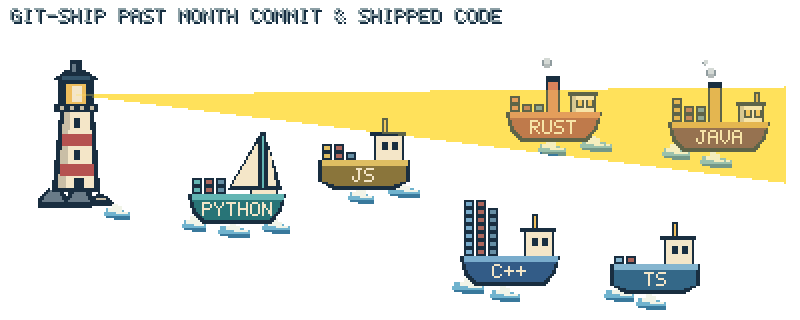
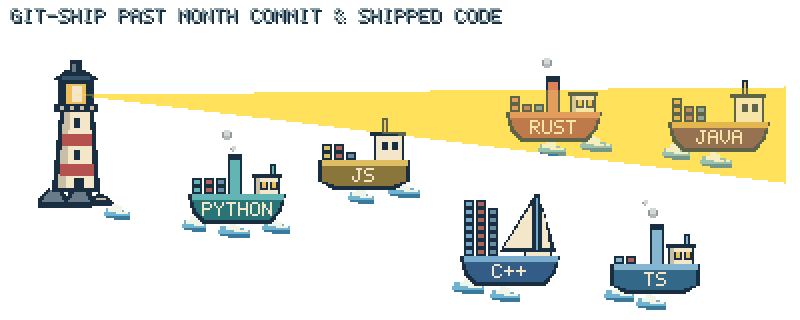
Choose ship designs independently of language on each generation

diff --git a/tests/test_ship_assignment.py b/tests/test_ship_assignment.py
@@ -1,0 +1,61 @@
+from collections import Counter
+from dataclasses import replace
+
+import pytest
+
+from git_ship.config import Config
+from git_ship.export import export
+from git_ship.layout import layout
+from git_ship.sprites import SHIP_DESIGNS, language_style, ship_sprite
+
+
+def test_each_language_can_use_every_existing_ship_design(demo):
+    designs = {ship.language.name: set() for ship in layout(demo, Config(seed=0)).ships}
+    # A language's data/color identity stays intact as its physical ship changes.
+    for seed in range(50):
+        for ship in layout(demo, Config(seed=seed)).ships:
+            designs[ship.language.name].add(ship.style.design)
+            base = language_style(ship.language.name, Config())
+            assert (ship.style.label, ship.style.hull, ship.style.trim) == (
+                base.label,
+                base.hull,
+                base.trim,
+            )
+    assert all(found == set(SHIP_DESIGNS) for found in designs.values())
+
+
+def test_fleet_uses_every_design_before_repeating_and_honors_custom_labels(demo):
+    config = Config(seed="mixed-fleet", labels={"Java": "CUSTOM"}, colors={"Java": "#123456"})
+    scene = layout(demo, config)
+    chosen = [ship.style.design for ship in scene.ships]
+    assert len(set(chosen[: len(SHIP_DESIGNS)])) == min(len(chosen), len(SHIP_DESIGNS))
+    assert max(Counter(chosen).values()) <= 2
+    java = next(ship for ship in scene.ships if ship.language.name == "Java")
+    assert java.style.label == "CUSTOM" and java.style.hull == "#123456"
+    assert java.language.cargo == 7
+
+
+def test_design_assignment_does_not_depend_on_placement_retries(demo):
+    config = Config(seed="independent-shapes")
+    with_header = layout(demo, config)
+    without_header = layout(demo, replace(config, watermark=False))
+    assert [ship.style.design for ship in with_header.ships] == [
+        ship.style.design for ship in without_header.ships
+    ]
+
+
+def test_recorded_seed_replays_positions_designs_and_cargo(demo, tmp_path):
+    config = Config(seed="record-the-whole-fleet", scale=1, duration=2)
+    scene = layout(demo, config)
+    report, _ = export(scene, config, tmp_path)
+    replay = layout(demo, replace(config, seed=report["layout_seed"]))
+    assert replay == scene
+    assert [language["design"] for language in report["languages"]] == [
+        ship.style.design for ship in scene.ships
+    ]
+
+
+def test_unknown_ship_design_is_rejected_instead_of_becoming_a_sailboat():
+    style = replace(language_style("Java", Config()), design="unapproved-design")
+    with pytest.raises(ValueError, match="unknown ship design"):
+        ship_sprite(style, 60, 20)

diff --git a/src/git_ship/layout.py b/src/git_ship/layout.py
@@ -9,7 +9,7 @@ from dataclasses import dataclass
 
 from .config import HEIGHT, WIDTH, Config
 from .model import Language, Profile, global_activity, rank_languages
-from .sprites import Style, language_style, stable_seed
+from .sprites import SHIP_DESIGNS, Style, language_style, stable_seed
 from .watermark import WATERMARK_HEIGHT
 
 
@@ -96,13 +96,23 @@ def layout(profile: Profile, config: Config) -> Scene:
     identity = profile.username.casefold()
     widths = [min(round(44 + 16 * math.sqrt(language.share)), 62) for language in languages]
     positions = placements(widths, rng, WATERMARK_HEIGHT if config.watermark else 0)
+    # Each shuffled bag uses every approved design before repeating. Ship shapes
+    # are chosen per generation, independently of the language they carry.
+    design_rng = random.Random(stable_seed(f"{layout_seed}:ships"))
+    designs = []
+    while len(designs) < len(languages):
+        bag = list(SHIP_DESIGNS)
+        design_rng.shuffle(bag)
+        designs.extend(bag)
     ships = []
-    for language, width, (x, y) in zip(languages, widths, positions, strict=True):
+    for language, width, (x, y), design in zip(
+        languages, widths, positions, designs[: len(languages)], strict=True
+    ):
         phase = (stable_seed(f"{identity}:{language.name}") % 1024) / 1024
         ships.append(
             Ship(
                 language,
-                language_style(language.name, config),
+                language_style(language.name, config, design=design),
                 x,
                 y,
                 width,

diff --git a/src/git_ship/sprites.py b/src/git_ship/sprites.py
@@ -33,6 +33,7 @@ STONE = "#697b88"
 
 # Sprite-space mouth positions, shared by the art and its smoke emitter.
 FUNNEL_ORIGINS = {"steam": (21, 18), "tug": (21, 20)}
+SHIP_DESIGNS = ("steam", "tug", "freighter", "sail")
 
 LANGUAGES = json.loads(files("git_ship").joinpath("assets/languages.json").read_text())
 
@@ -49,7 +50,7 @@ class Style:
     trim: str
 
 
-def language_style(name: str, config: Config) -> Style:
+def language_style(name: str, config: Config, *, design: str | None = None) -> Style:
     known = LANGUAGES.get(name)
     if not isinstance(known, dict):
         variants = LANGUAGES["fallbacks"]
@@ -65,13 +66,15 @@ def language_style(name: str, config: Config) -> Style:
         hull = "#" + "".join(f"{round(c * 0.52):02x}" for c in (r, g, b))
     else:
         trim = known["trim"]
-    return Style(label, known["design"], hull, trim)
+    return Style(label, design if design is not None else known["design"], hull, trim)
 
 
 def ship_sprite(style: Style, width: int, cargo: int = 0) -> Image.Image:
     """A right-facing boat, its hull at y=39..52; lettering never scales."""
     if type(cargo) is not int or not 0 <= cargo <= CARGO_LIMIT:
         raise ValueError(f"cargo must be an integer in 0..{CARGO_LIMIT}")
+    if style.design not in SHIP_DESIGNS:
+        raise ValueError(f"unknown ship design: {style.design}")
     image = Image.new("RGBA", (width, 56))
     d = ImageDraw.Draw(image)
     mid = width - 13

diff --git a/scripts/sprite_atlas.py b/scripts/sprite_atlas.py
@@ -11,7 +11,7 @@ from git_ship.model import Profile
 from git_ship.sprites import lighthouse_sprite, ship_sprite
 
 with as_file(files("git_ship").joinpath("assets/demo.json")) as path:
-    fleet = layout(Profile.read(path), Config())
+    fleet = layout(Profile.read(path), Config(seed="demo"))
 atlas = Image.new("RGBA", (60 + 70 * len(fleet.ships), 100))
 atlas.alpha_composite(lighthouse_sprite(), (4, 4))
 for i, ship in enumerate(fleet.ships):

diff --git a/src/git_ship/export.py b/src/git_ship/export.py
@@ -119,6 +119,7 @@ def export(
             {
                 "name": s.language.name,
                 "label": s.style.label,
+                "design": s.style.design,
                 "code_share": round(s.language.share, 6),
                 "activity": round(s.language.activity, 6),
                 "width": s.width,

diff --git a/README.md b/README.md
@@ -7,7 +7,7 @@ A little lighthouse for you. A cargo fleet for your languages. Your GitHub READM
   <img src="examples/demo/git-ship.gif" width="800" alt="A lighthouse beside six active-language pixel ships carrying commit cargo over small foamy wakes.">
 </picture>
 
-Git Ship is an open-source **reusable GitHub Action** and Python CLI for anyone's profile. It fetches your public repository data and generates a transparent animated GIF plus a matching static PNG. **Only languages with qualifying commits appear: up to six ships, with one container per commit and at most 20 containers per ship.** Each regeneration picks fresh positions across the sea; positions remain fixed within the seamless animation loop. An optional rotating lighthouse ray sweeps a solid yellow cone across the scene and tints the artwork it crosses. A small optional watermark at the top left names Git Ship and the selected period. Regenerate automatically every day and choose a **1-day, 7-day, 30-day, or 365-day** activity window. No hosted application, external image service, or personal access token is needed for the normal setup.
+Git Ship is an open-source **reusable GitHub Action** and Python CLI for anyone's profile. It fetches your public repository data and generates a transparent animated GIF plus a matching static PNG. **Only languages with qualifying commits appear: up to six ships, with one container per commit and at most 20 containers per ship.** Each regeneration picks fresh positions across the sea and shuffles ship types; positions and types remain fixed within the seamless animation loop. An optional rotating lighthouse ray sweeps a solid yellow cone across the scene and tints the artwork it crosses. A small optional watermark at the top left names Git Ship and the selected period. Regenerate automatically every day and choose a **1-day, 7-day, 30-day, or 365-day** activity window. No hosted application, external image service, or personal access token is needed for the normal setup.
 
 Use `PingPongPlus/git-ship@main` for the current source action, or pin a reviewed full commit SHA for a stable installation.
 
@@ -149,6 +149,8 @@ File attribution is a **filename-based heuristic**, not GitHub's full content-aw
 
 Zero matching commits means **no ship for that language**. Unknown cached activity is hidden too. There are no decorative cargo blocks. All four designs reserve deck space for three columns of containers, up to seven tiers (20 total), keeping the hull name, sails, cabin and smoke clear. Container size stays constant as stacks grow. The demo includes **JAVA (7)**, **C++ (20)**, **PYTHON (6)**, **RUST (4)**, **JavaScript/JS (5)**, and **TypeScript/TS (2)**.
 
+Ship shape is independent of language. Each generation shuffles the four existing types—steamship, tug, freighter and sailboat—and uses every type before repeating one. A six-ship fleet therefore has no more than two of any type. Language labels, colors, custom label/color settings and commit cargo remain tied to the actual language.
+
 Fetching considers all candidate languages until it can determine the active fleet, including languages below quiet high-byte candidates. It stops early only when the selected counts are known/capped and higher-ranked candidates cannot change that selection. Larger counts are intentionally represented as **20**, not reported as exact totals. Repository/commit lists are bounded to ten 100-item pages each, commit files to 30 pages, responses to 10 MB, and a run to 2000 HTTP attempts. Reaching GitHub's 3000-file-per-commit limit or a pagination/request limit fails clearly rather than silently undercounting. Narrow repository filters or the data window for large profiles. Public API limits may be lower than these client bounds.
 
 ## Run locally, entirely offline if desired
@@ -182,7 +184,7 @@ Open `out/preview.html` directly or serve it with `python -m http.server 8000` a
 | --- | --- |
 | `git-ship.gif` | Transparent endlessly looping animation |
 | `git-ship.png` | Transparent static frame zero |
-| `report.json` | Dimensions, timing, size, transparency, window days, beam/watermark settings, watermark text, ship positions, cargo counts and replayable layout seed |
+| `report.json` | Dimensions, timing, size, transparency, window days, beam/watermark settings, watermark text, ship positions/types, cargo counts and replayable layout seed |
 | `preview.html` | Optional light/dark playback and pause control |
 | `contact-sheet.png` | Optional four-time-point verification sheet |
 
@@ -200,7 +202,7 @@ Cached normalized schema-2 profiles contain public bytes, sampled commit SHAs/au
 | `scale` | 2 | Integer 1–4; 400×160 logical grid, nearest-neighbor export |
 | `fps` | 10 | 5, 10, 20 or 25, all exact GIF centiseconds |
 | `duration` | 10 | Integer seconds, 2–20; at most 300 frames |
-| `seed` | fresh random value | Optional string/integer to reproduce placement; omit for new positions on each run |
+| `seed` | fresh random value | Optional string/integer to reproduce positions and ship types; omit for a fresh fleet on each run |
 | `lighthouse_beam` | true | Rotating lighthouse ray; set false to disable |
 | `watermark` | true | Top-left Git Ship and data-period label; set false to disable |
 | `observation_date` | current instant live | ISO/TOML date; override uses end of that UTC date; offline uses its fixture instant/date |
@@ -215,7 +217,7 @@ To disable the ray, add `lighthouse-beam: 'false'` under the action's `with:` bl
 
 The watermark reads **`GIT-SHIP PAST MONTH COMMIT & SHIPPED CODE`** for the month preset. It follows the selected day, week, month or year window; a custom window uses its number of days. It uses the project's uppercase pixel font and gray lettering at the top left. To hide it, set the action input `watermark: 'false'`, use `watermark = false` in TOML, or pass `--no-watermark`. `--watermark` enables it explicitly. This display setting does not change commit counts.
 
-Abbreviations include JS, TS, IPYNB, and OBJ-C. Unknown names use an uppercase ASCII approximation truncated to six characters; configure labels to avoid collisions. Full language names remain in the report. Unknown languages receive deterministic design/color variants. An inactive window keeps the lighthouse, its optional ray and localized ripples, with no idle ships. Total export workload is capped at **80 million frame-pixels** before allocation; not every otherwise-valid scale/fps/duration combination fits. RGBA, indexed and verification frames make peak memory several times the pixel count.
+Abbreviations include JS, TS, IPYNB, and OBJ-C. Unknown names use an uppercase ASCII approximation truncated to six characters; configure labels to avoid collisions. Full language names remain in the report. Unknown languages receive deterministic color variants and participate in the same shuffled ship-type pool. An inactive window keeps the lighthouse, its optional ray and localized ripples, with no idle ships. Total export workload is capped at **80 million frame-pixels** before allocation; not every otherwise-valid scale/fps/duration combination fits. RGBA, indexed and verification frames make peak memory several times the pixel count.
 
 ## Exact activity and animation formulas
 
@@ -225,7 +227,7 @@ For language `L`, `B[L] = sum(selected_repo_bytes[L])`, and `share[L] = B[L]/sum
 
 The optional [GraphQL contribution calendar](https://docs.github.com/en/graphql/reference/users#contributionscollection) is requested for the same chosen interval. GitHub defines its contribution types, daily calendar aggregation and token visibility; it is not a precise per-language commit counter. Clamp `energy = min(total,1000)/1000`; unavailable totals stay null and use energy zero with a warning. Language bytes are not time-windowed.
 
-Each render samples positions throughout the sea to the right of the lighthouse, rejecting placements whose full wake/drift/bob/smoke envelopes overlap or leave the canvas. Bounded retries keep layout work finite; dense fleets fall back to randomized column widths and independent vertical splits that guarantee room. Hull width is `min(round(44 + 16*sqrt(share)), 62)`, so names and cargo stay readable even with six ships. A fresh random seed is chosen **once per render**, never per frame. `report.json` stores `layout_seed` and ship coordinates; pass the seed back through `--seed` with the same profile/config to reproduce the GIF. The demo artifacts use `--seed demo`. Refreshing a README replays its existing GIF; a new workflow run generates the new placement.
+Each render samples positions throughout the sea to the right of the lighthouse, rejecting placements whose full wake/drift/bob/smoke envelopes overlap or leave the canvas. Bounded retries keep layout work finite; dense fleets fall back to randomized column widths and independent vertical splits that guarantee room. Hull width is `min(round(44 + 16*sqrt(share)), 62)`, so names and cargo stay readable even with six ships. A fresh random seed is chosen **once per render**, never per frame. A separate shuffle derived from that seed assigns ship types without changing placement randomness. `report.json` stores `layout_seed`, ship coordinates and each language's `design` (`steam`, `tug`, `freighter` or `sail`); pass the seed back through `--seed` with the same profile/config to reproduce positions, types and the GIF. The demo artifacts use `--seed demo`. Refreshing a README replays its existing GIF; a new workflow run generates a fresh fleet.
 
 A 14-pixel header reserves space for the watermark. The label is drawn after the ray, keeping its gray lettering untinted throughout the animation. The report records `watermark` and `watermark_text` alongside the selected activity window.
 
@@ -237,7 +239,7 @@ Three blue/white wake clusters cycle three times per loop, visible for phases 0.
 
 PNG has real binary RGBA alpha. The ray's tint is preblended into RGB while its pixels remain fully opaque, keeping the same result in GIF. GIF uses one exact shared palette, transparency index **0**, full-frame image blocks and **disposal 2**, with optimization disabled. Outside the ray and scene artwork, the sea and sky remain transparent; no matte, quantization, antialiasing or checkerboard is drawn. Pillow's public GIF block helpers preserve identical adjacent frames in quiet scenes. Every saved GIF frame is decoded and compared against intended alpha and visible RGB, including vacated pixels, before images replace existing assets. See [Pillow's GIF options](https://pillow.readthedocs.io/en/stable/handbook/image-file-formats.html#gif).
 
-Current six-ship demo with the solid ray and watermark enabled: **800×320**, **100 frames**, **10 fps**, **10 seconds**, **947,276 GIF bytes**; PNG **6,356 bytes**. Every frame is **74.19–84.27% fully transparent**. The filled ray occupies additional space as it sweeps; the ray-disabled fleet retains the tested 80% minimum transparency. Sizes may change with source/palette/Pillow versions; `report.json` records actual measurements. The 2 MB target is a warning threshold, not a reason to hide names or cargo. 800 px is recommended; 400 px is the compact proof.
+Current six-ship demo with randomized ship types, the solid ray and watermark enabled: **800×320**, **100 frames**, **10 fps**, **10 seconds**, **969,933 GIF bytes**; PNG **6,567 bytes**. Every frame is **73.82–84.12% fully transparent**. The filled ray occupies additional space as it sweeps; the ray-disabled fleet retains the tested 80% minimum transparency. Sizes may change with source/palette/Pillow versions; `report.json` records actual measurements. The 2 MB target is a warning threshold, not a reason to hide names or cargo. 800 px is recommended; 400 px is the compact proof.
 
 ## Develop, test and inspect
 
@@ -251,7 +253,7 @@ python scripts/sprite_atlas.py
 git-ship render --demo --seed demo --preview --output-dir examples/demo
 ```
 
-Ordinary tests use fixtures and local temporary Git repositories, with no live API or push requirement. They cover active-language discovery below inactive candidates, six-ship limits, randomized/replayable layouts across the sea, disjoint full motion envelopes across many seeds, the 20-container cap, file/commit pagination, renamed-account author attribution, SHA deduplication, time windows, unknown caches, cargo/label clearance, beam rotation and its disable setting, the period watermark, loop continuity, exact decoded cleanup, offline CLI/action execution, and isolated output-branch publishing. CI runs on pushes and pull requests with Python 3.11/3.15, lint, tests, package build and an offline render. A separate job invokes the actual local root composite action with `uses: ./` and a selected data window. CI does not publish images or releases. Dependabot checks Actions and Python dependencies monthly. Actions currently use v7 major refs; pin immutable SHAs if required by your policy.
+Ordinary tests use fixtures and local temporary Git repositories, with no live API or push requirement. They cover active-language discovery below inactive candidates, six-ship limits, randomized/replayable layouts and balanced ship-type assignments, disjoint full motion envelopes across many seeds, the 20-container cap, file/commit pagination, renamed-account author attribution, SHA deduplication, time windows, unknown caches, cargo/label clearance, beam rotation and its disable setting, the period watermark, loop continuity, exact decoded cleanup, offline CLI/action execution, and isolated output-branch publishing. CI runs on pushes and pull requests with Python 3.11/3.15, lint, tests, package build and an offline render. A separate job invokes the actual local root composite action with `uses: ./` and a selected data window. CI does not publish images or releases. Dependabot checks Actions and Python dependencies monthly. Actions currently use v7 major refs; pin immutable SHAs if required by your policy.
 
 Editable artwork is documented in [artwork/README.md](artwork/README.md). The renderer separates fetching (`github.py`), normalization/ranking (`model.py`), filename attribution (`languages.py`), validation (`config.py`), safe layout (`layout.py`), pixel art (`sprites.py`, `font.py`), animation (`animation.py`), export/audit (`export.py`) and local proof (`preview.py`). `scripts/run_action.py` runs the same CLI for any caller; `scripts/publish_assets.py` is optional and separate.
 

diff --git a/docs/verification.md b/docs/verification.md
@@ -4,9 +4,9 @@ Local verification: **2026-11-01**, macOS arm64, Python **3.15.0**, Pillow **13.
 CI covers Python **3.11/3.15** and runs the root composite action with Python **3.13**.
 The public destination is [PingPongPlus/git-ship](https://github.com/PingPongPlus/git-ship).
 This revision targets `main` and retains the rolling 365-day preset. It fixes
-renamed-account commit attribution, samples ship positions across the sea, and
-adds a configurable rotating lighthouse ray and period watermark. No `v1` or
-Marketplace release is claimed. Hosted results are available under the
+renamed-account commit attribution, samples ship positions across the sea,
+shuffles the existing ship types, and adds a configurable rotating lighthouse ray
+and period watermark. No `v1` or Marketplace release is claimed. Hosted results are available under the
 repository's Actions tab.
 
 ## Commands and results
@@ -18,7 +18,7 @@ Commands were run from the project root with its `.venv` unless noted.
 | `/opt/homebrew/bin/python3 -m venv .venv` | Created Python 3.15 environment; the system Python 3.9.6 was too old. |
 | `python -m pip install --no-build-isolation -e .` | Package and CLI installed successfully. |
 | `ruff check .` / `ruff format --check .` | Passed. |
-| `pytest -q` | **119 passed** in 6.95 seconds, with no live API required. |
+| `pytest -q` | **124 passed** in 6.97 seconds, with no live API required. |
 | `python -m build --no-isolation` | Built wheel and source archive, including JSON mappings, fixtures and the Linguist license. |
 | `python -m pip install --no-deps --upgrade --target out/wheel-install dist/git_ship-0.1.0-py3-none-any.whl` | Installed built wheel into an isolated target for verification. |
 | From `/private/tmp`, using the absolute interpreter path and `PYTHONPATH=.../out/wheel-install`: `python -m git_ship render --demo --duration 2 --scale 1 --output-dir .../out/wheel-render` | Installed-wheel import/render smoke test; bundled offline assets and mappings work outside the source checkout. |
@@ -75,7 +75,19 @@ Ordinary tests never depend on GitHub availability or write to a remote service.
   fall back to randomized column widths and independent vertical splits when a
   dense fleet needs a guaranteed fit. Positions remain fixed through the loop.
   An explicit `--seed` makes the complete scene repeatable; the report records
-  `layout_seed`, coordinates, ray/watermark settings and watermark text.
+  `layout_seed`, coordinates, ship designs, ray/watermark settings and watermark
+  text.
+
+## Ship-type assignment contracts
+
+The production pool remains the four existing `steam`, `tug`, `freighter` and
+`sail` designs. Each render shuffles a bag of all four before any repeats; a
+six-ship scene has at most two of each design. The shuffle uses a separate random
+stream derived from the layout seed, so an explicit seed replays both positions
+and types. Language labels, colors, custom label/color settings and commit cargo
+are preserved independently of shape. Each report language entry includes
+`design`. The sprite atlas uses the fixed `demo` seed for reproducible type
+assignments. No additional ship artwork is included in this production pool.
 
 ## Renamed-account undercount investigation
 
@@ -151,15 +163,16 @@ Fixture: `src/git_ship/assets/demo.json`, observed on **2026-10-01**.
 | Layout seed | `demo` |
 | Lighthouse ray | Enabled |
 | Watermark | Enabled; `GIT-SHIP PAST MONTH COMMIT & SHIPPED CODE` |
-| GIF | **947,276 bytes**, below 2 MB target |
-| PNG | **6,356 bytes**, genuine RGBA |
-| Fully transparent pixels over every frame | **74.1875%–84.271875%** |
+| Ship designs, in report order | freighter / sail / steam / tug / freighter / steam |
+| GIF | **969,933 bytes**, below 2 MB target |
+| PNG | **6,567 bytes**, genuine RGBA |
+| Fully transparent pixels over every frame | **73.821875%–84.1171875%** |
 | Alpha / palette / disposal | Binary alpha, one shared palette, transparent index 0, disposal 2 |
 | Decoded comparison | All 100 frames exactly match intended alpha and visible RGB |
 | Cargo, in report order | JAVA 7 / C++ 20 / PYTHON 6 / RUST 4 / JS 5 / TS 2 |
 
 The solid ray intentionally occupies otherwise empty pixels while sweeping,
-reducing the demo's minimum transparency to about 74.19% with the watermark
+reducing the demo's minimum transparency to about 73.82% with the watermark
 enabled. Tests continue to require at least 80% transparency for the fleet with
 the ray disabled. With the
 ray enabled, exact binary alpha, palette colors and decoded cleanup remain

diff --git a/artwork/README.md b/artwork/README.md
@@ -2,7 +2,7 @@ The original editable artwork lives in the installed package:
 
 - `src/git_ship/sprites.py`: lighthouse, rocks, four ship designs, commit cargo, palette and art primitives.
 - `src/git_ship/font.py`: original 5×7 bitmap glyphs, including `+`, `#`, spaces and hyphens.
-- `src/git_ship/assets/languages.json`: the single language/style/abbreviation mapping.
+- `src/git_ship/assets/languages.json`: language colors and abbreviations; rendered ship type is assigned separately.
 - `src/git_ship/animation.py`: separate transient wakes, smoke, lantern states, rotating light ray and period watermark.
 
 Coordinates are logical pixels. All drawing is binary-alpha, integer-grid Pillow
@@ -15,14 +15,21 @@ Cargo uses a reserved aft-deck bank on every design: three columns, up to seven
 tiers and twenty containers total. Each constant-size 5×4-pixel container
 represents one distinct authored commit in the selected data window. Zero or
 unknown activity means the entire ship is hidden. There are no decorative cargo
-blocks. The six-language atlas uses the CLI fixture counts, including the gold JS
-freighter, TS and a C++ ship with twenty containers. Cargo stays inside the sprite;
+blocks. The six-language atlas uses the CLI fixture's labels, colors and cargo
+counts, including JS, TS and a C++ ship with twenty containers. Cargo stays inside the sprite;
 smoke passes behind it, and labels, cabins, funnels and sails remain unobstructed.
 Normal renders sample fresh positions across the sea while reserving each ship's
 full motion envelope. Bounded retries and a randomized packing fallback keep up
 to six ships clear of one another and the lighthouse. To reproduce the delivered
-demo, use `--seed demo`; this fixes positions while keeping the loop periodic.
-The atlas itself is independent of scene positions.
+demo, use `--seed demo`; this fixes positions and types while keeping the loop
+periodic. The atlas uses the same seed for deterministic type assignments and
+remains independent of scene positions.
+
+The current production pool contains four existing shapes: steamship, tug,
+freighter and sailboat. A shuffled bag uses all four before any repeats, so a
+six-ship fleet has at most two of each. The type shuffle is derived separately
+from the layout seed. It never changes a language's label, colors, custom
+configuration or commit count; shapes are not permanently assigned to languages.
 
 The optional lighthouse ray starts at the lantern and changes projected reach,
 tilt and fan width over one exact loop, creating the impression of a rotating
